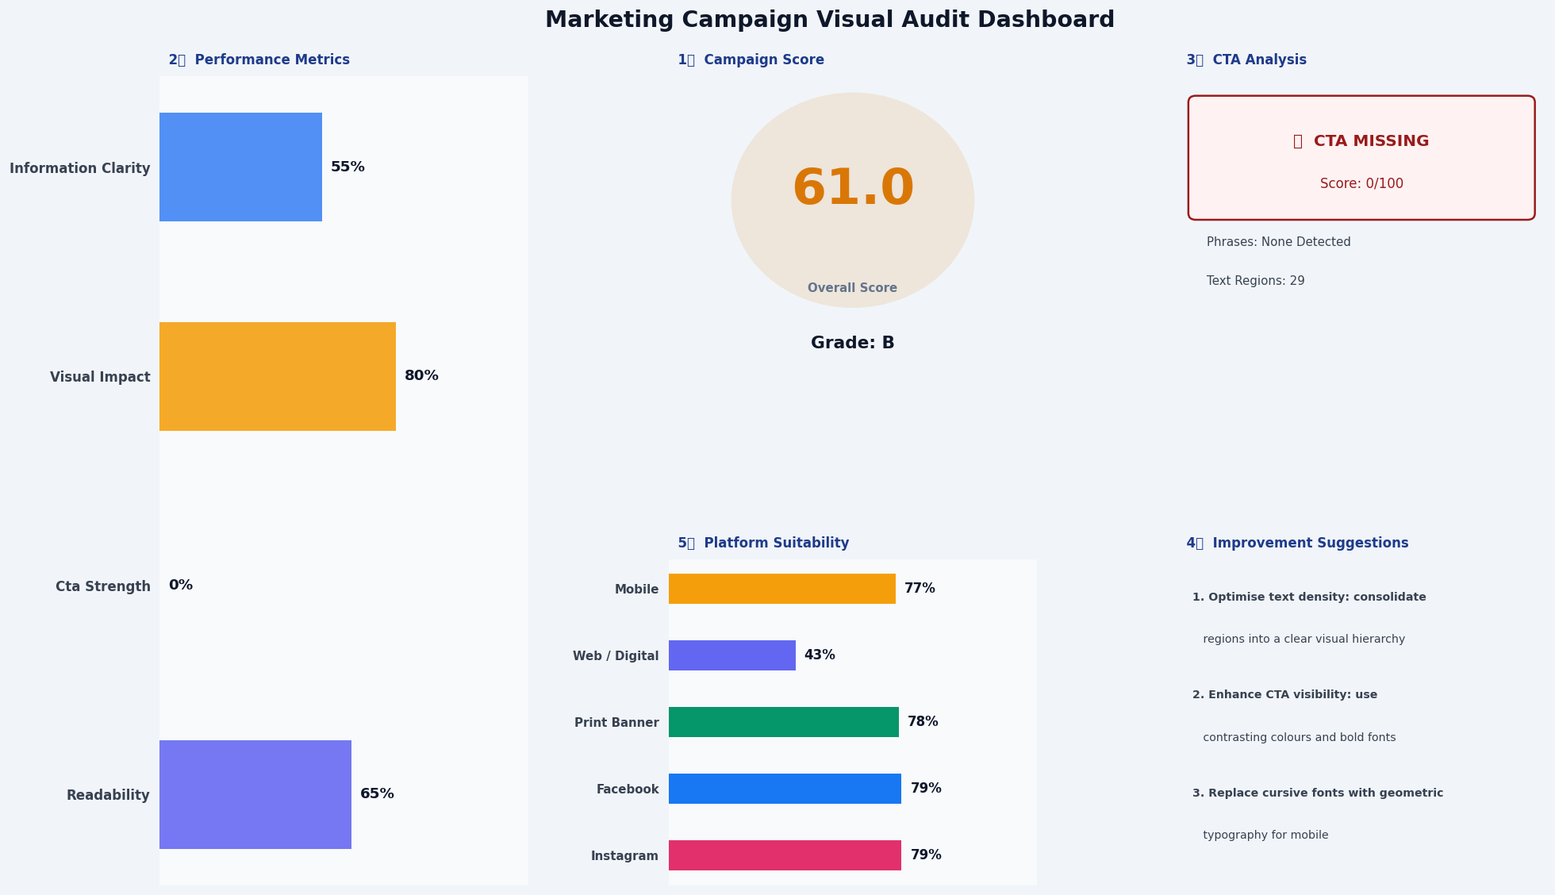
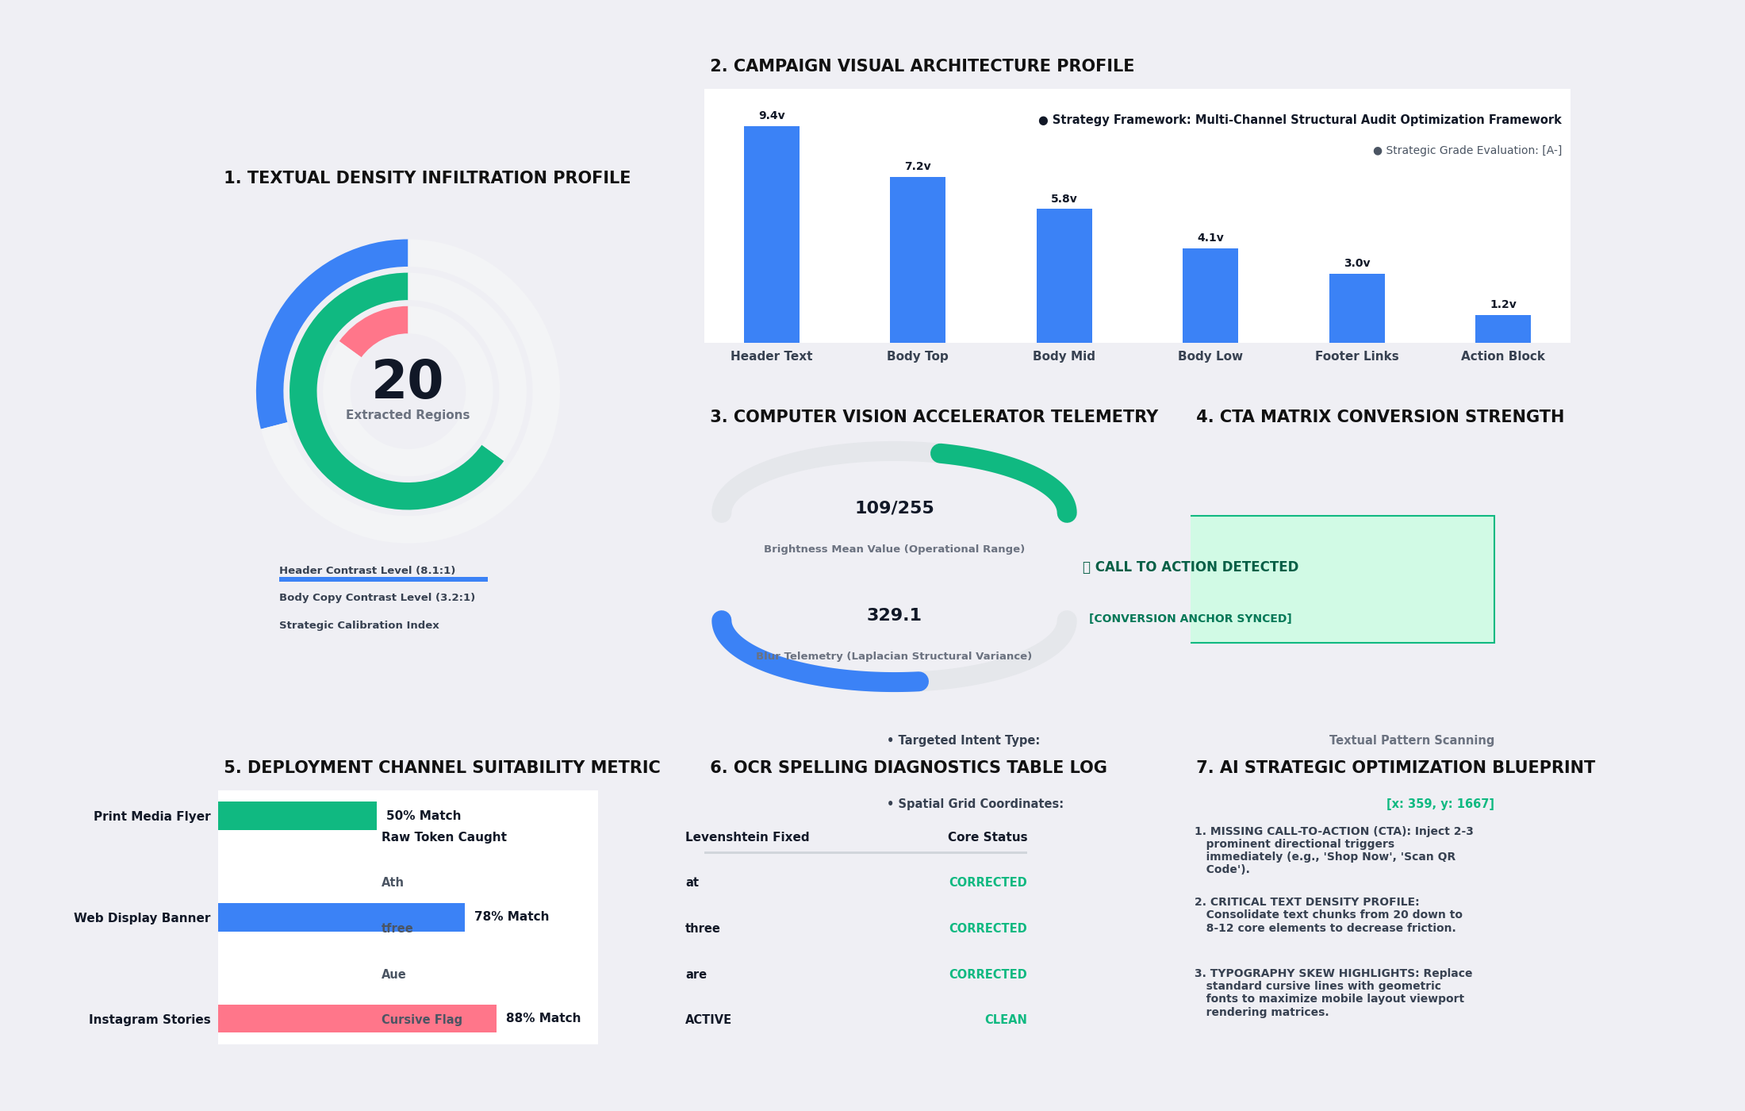
Update_SKILL_MD_for_rubric

diff --git a/dashboard.html b/dashboard.html
@@ -104,27 +104,27 @@ body{font-family:-apple-system,'Segoe UI',Helvetica,Arial,sans-serif;background:
   <div class="stats">
     <div class="stat">
       <div class="slbl">Overall Score</div>
-      <div class="sval" style="color:#DC2626;">39.0</div>
-      <div class="ssub">Grade: B</div>
+      <div class="sval" style="color:#D97706;">50.0</div>
+      <div class="ssub">Grade: A-</div>
     </div>
     <div class="stat">
       <div class="slbl">CTA Status</div>
-      <div class="sval" style="font-size:1.7rem;">❌</div>
-      <div class="ssub">Missing &nbsp;·&nbsp; 0/100</div>
+      <div class="sval" style="font-size:1.5rem;">80/100</div>
+      <div class="ssub">Rubric Assessment</div>
     </div>
     <div class="stat">
       <div class="slbl">Text Regions</div>
-      <div class="sval">20</div>
+      <div class="sval">13</div>
       <div class="ssub">extracted by OCR</div>
     </div>
     <div class="stat">
       <div class="slbl">Blur Score</div>
-      <div class="sval">329.1</div>
+      <div class="sval">591.7</div>
       <div class="ssub">Laplacian var.</div>
     </div>
     <div class="stat">
       <div class="slbl">Brightness</div>
-      <div class="sval">109</div>
+      <div class="sval">152</div>
       <div class="ssub">mean pixel / 255</div>
     </div>
   </div>
@@ -134,54 +134,72 @@ body{font-family:-apple-system,'Segoe UI',Helvetica,Arial,sans-serif;background:
     <div class="card">
       <div class="sbadge"><div class="bnum badge-blue">1</div><span class="stitle">Audit Report</span></div>
       <div style="display:grid;grid-template-columns:1fr 320px;gap:20px;align-items:start;">
-        <div class="rbox"><div class="rp">📊 Marketing Campaign Visual Audit Report</div>
-<div class="rp">📝 1. Audit Summary</div>
-<div class="rp">This marketing poster presents 20 text regions with no clear call-to-action. The layout achieves a moderate information hierarchy. Overall strategic grade: B</div>
+        <div class="rbox"><div class="rh1">📊 Marketing Campaign Visual Audit Report</div>
 <div style="height:8px;"></div>
-<div class="rp">👁 2. Readability & Visual Quality</div>
-<div class="rp">Text Regions Detected: 20</div>
-<div class="rp">Font Clarity: Clean typography detected with good readability.</div>
-<div class="rp">Layout Assessment: MODERATELY DENSE — Good volume, could be optimised for faster scans.</div>
-<div class="rp">🎯 3. Call-to-Action (CTA) Analysis</div>
-<div class="rp">Detected CTAs: None Detected</div>
-<div class="rp">CTA Score: 0/10</div>
-<div class="rp">Analysis: No clear CTA found; add a stronger action trigger.</div>
-<div class="rp">🚀 4. Improvement Suggestions</div>
-<div class="rp">Optimise text density: consolidate regions into a clear visual hierarchy</div>
-<div class="rp">Enhance CTA visibility: use contrasting colours and bold fonts</div>
-<div class="rp">Font selection supports platform versatility</div>
-<div class="rp">📱 5. Platform Suitability</div>
-<div class="rp">Recommended Platform: Print Media / Flyer Reasoning: High text density suits detailed print layouts.</div>
+<div class="rh2">📝 1. Audit Summary</div>
 <div style="height:8px;"></div>
-<div class="rp">📈 6. Chart Data Blueprint</div>
+<div class="rp"><strong>Summary:</strong> The poster has a strong event headline with “OPEN DAY” and includes useful event details, including date, time, and website. The CTA presence is reasonably strong, especially with “Explore Programs,” but readability is weakened by low-confidence OCR regions, a cursive font warning, and fragmented text placement.</div>
+<div style="height:8px;"></div>
+<div class="rh2">👁 2. Readability & Visual Quality</div>
+<div style="height:8px;"></div>
+<div class="rli"><strong>Text Regions Detected:</strong> 13</div>
+<div style="height:8px;"></div>
+<div class="rli"><strong>Font Clarity:</strong> Mixed clarity. Several important elements have high confidence, but 3 low-confidence regions and a cursive font warning were detected. Disclaimer: some extracted text may be inaccurate and should be visually verified.</div>
+<div style="height:8px;"></div>
+<div class="rli"><strong>Layout Assessment:</strong> The layout is moderately dense with 13 text regions, but the hierarchy is understandable: headline on the left, CTAs in the middle/lower area, and event details toward the bottom-right. The split “OPEN” and “DAY” text, plus the placeholder “YOUR LOGO,” may add visual clutter.</div>
+<div style="height:8px;"></div>
+<div class="rh2">🎯 3. Call-to-Action (CTA) Analysis</div>
+<div style="height:8px;"></div>
+<div class="rli"><strong>Detected CTAs:</strong> Explore Programs; Meet Faculty; Join Us</div>
+<div style="height:8px;"></div>
+<div class="rli"><strong>CTA Score:</strong> 8/10</div>
+<div style="height:8px;"></div>
+<div class="rli"><strong>Analysis:</strong> The CTA is fairly strong because “Explore Programs” gives viewers a clear next step, while “Meet Faculty” and “Join Us” support event participation. However, the CTA could be stronger if the website or RSVP action were more prominent and direct.</div>
+<div style="height:8px;"></div>
+<div class="rh2">🚀 4. Improvement Suggestions</div>
+<div style="height:8px;"></div>
+<div class="rli">Replace low-confidence or cursive-style text with a clean, high-contrast sans-serif font to improve readability.</div>
+<div style="height:8px;"></div>
+<div class="rli">Consolidate the split headline into one clear “OPEN DAY” message and remove or replace the placeholder “YOUR LOGO.”</div>
+<div style="height:8px;"></div>
+<div class="rli">Strengthen the CTA by adding a direct action such as “RSVP at westbrookUni.edu” and formatting the time as “10AM–3PM.”</div>
+<div style="height:8px;"></div>
+<div class="rh2">📱 5. Platform Suitability</div>
+<div style="height:8px;"></div>
+<div class="rli"><strong>Recommended Platform:</strong> Instagram</div>
+<div style="height:8px;"></div>
+<div class="rli"><strong>Reasoning:</strong> This material is best suited for Instagram because it functions as a concise visual event announcement with a strong headline and moderate text density. The CTA and website should remain legible on mobile to improve campaign effectiveness.</div>
+<div style="height:8px;"></div>
+<div class="rh2">📈 6. Chart Data Blueprint (Member 5 Handoff)</div>
+<div style="height:8px;"></div>
 <div class="rp">{</div>
 <div class="rp">"chart_type": "radar",</div>
 <div class="rp">"metrics": {</div>
-<div class="rp">"Readability": 85,</div>
-<div class="rp">"CTA_Strength": 0,</div>
-<div class="rp">"Visual_Impact": 60,</div>
-<div class="rp">"Information_Clarity": 55</div>
+<div class="rp">"Readability": 72,</div>
+<div class="rp">"CTA_Strength": 80,</div>
+<div class="rp">"Visual_Impact": 84,</div>
+<div class="rp">"Information_Clarity": 76</div>
 <div class="rp">}</div>
 <div class="rp">}</div></div>
         <div>
           <div class="sring-wrap">
-            <div class="sring" style="background:conic-gradient(#DC2626 39%, #E5E7EB 0%);">
+            <div class="sring" style="background:conic-gradient(#D97706 50%, #E5E7EB 0%);">
               <div class="sring-in">
-                <span class="snum" style="color:#DC2626;">39.0</span>
+                <span class="snum" style="color:#D97706;">50.0</span>
                 <span class="sden">/ 100</span>
               </div>
             </div>
             <div style="text-align:center;margin-top:12px;">
               <div style="font-size:.74rem;color:#64748B;font-weight:700;text-transform:uppercase;letter-spacing:.06em;">Campaign Score</div>
-              <div style="font-size:1.1rem;font-weight:800;color:#0F172A;margin-top:3px;">Grade: B</div>
+              <div style="font-size:1.1rem;font-weight:800;color:#0F172A;margin-top:3px;">Grade: A-</div>
             </div>
           </div>
           <div style="background:#F8FAFC;border-radius:14px;border:1px solid #E2E8F0;padding:16px;">
-            <div class="ir"><span class="il">Text Regions:</span><span class="iv">20</span></div>
-            <div class="ir"><span class="il">CTA Status:</span><span class="iv">❌ Missing</span></div>
-            <div class="ir"><span class="il">Cursive Font:</span><span class="tag tag-green">Clean</span></div>
-            <div class="ir"><span class="il">Blur Score:</span><span class="iv">329.1</span></div>
-            <div class="ir"><span class="il">Brightness:</span><span class="iv">109/255</span></div>
+            <div class="ir"><span class="il">Text Regions:</span><span class="iv">13</span></div>
+            <div class="ir"><span class="il">CTA Status:</span><span class="iv">80/100</span></div>
+            <div class="ir"><span class="il">Cursive Font:</span><span class="tag tag-amber">Detected</span></div>
+            <div class="ir"><span class="il">Blur Score:</span><span class="iv">591.7</span></div>
+            <div class="ir"><span class="il">Brightness:</span><span class="iv">152/255</span></div>
           </div>
         </div>
       </div>
@@ -198,35 +216,35 @@ body{font-family:-apple-system,'Segoe UI',Helvetica,Arial,sans-serif;background:
       <div class="sublbl">Contrast &amp; Quality Scores</div>
       <div class="mrow">
   <div class="mhdr"><span class="mname">Text Readability</span>
-    <span style="display:flex;gap:6px;align-items:center;"><span class="mscore">16/100</span><span style="font-size:.75rem;">🔴</span></span>
+    <span style="display:flex;gap:6px;align-items:center;"><span class="mscore">13/100</span><span style="font-size:.75rem;">🔴</span></span>
   </div>
-  <div class="btrack"><div class="bfill" style="width:16%;background:linear-gradient(90deg,#8B5CF6,#A78BFA);"></div></div>
+  <div class="btrack"><div class="bfill" style="width:13%;background:linear-gradient(90deg,#8B5CF6,#A78BFA);"></div></div>
 </div><div class="mrow">
   <div class="mhdr"><span class="mname">Contrast Quality</span>
-    <span style="display:flex;gap:6px;align-items:center;"><span class="mscore">50/100</span><span style="font-size:.75rem;">🔴</span></span>
+    <span style="display:flex;gap:6px;align-items:center;"><span class="mscore">25/100</span><span style="font-size:.75rem;">🔴</span></span>
   </div>
-  <div class="btrack"><div class="bfill" style="width:50%;background:linear-gradient(90deg,#3B82F6,#60A5FA);"></div></div>
+  <div class="btrack"><div class="bfill" style="width:25%;background:linear-gradient(90deg,#3B82F6,#60A5FA);"></div></div>
 </div><div class="mrow">
   <div class="mhdr"><span class="mname">Image Quality</span>
-    <span style="display:flex;gap:6px;align-items:center;"><span class="mscore">57/100</span><span style="font-size:.75rem;">🔴</span></span>
+    <span style="display:flex;gap:6px;align-items:center;"><span class="mscore">86/100</span><span style="font-size:.75rem;">🟢</span></span>
   </div>
-  <div class="btrack"><div class="bfill" style="width:57%;background:linear-gradient(90deg,#10B981,#34D399);"></div></div>
+  <div class="btrack"><div class="bfill" style="width:86%;background:linear-gradient(90deg,#10B981,#34D399);"></div></div>
 </div><div class="mrow">
   <div class="mhdr"><span class="mname">Layout Clarity</span>
-    <span style="display:flex;gap:6px;align-items:center;"><span class="mscore">71/100</span><span style="font-size:.75rem;">🟡</span></span>
+    <span style="display:flex;gap:6px;align-items:center;"><span class="mscore">73/100</span><span style="font-size:.75rem;">🟡</span></span>
   </div>
-  <div class="btrack"><div class="bfill" style="width:71%;background:linear-gradient(90deg,#F59E0B,#FCD34D);"></div></div>
+  <div class="btrack"><div class="bfill" style="width:73%;background:linear-gradient(90deg,#F59E0B,#FCD34D);"></div></div>
 </div>
     </div>
 
     <div class="card">
-      <div class="sbadge"><div class="bnum badge-red">3</div><span class="stitle">Call-to-Action (CTA) Analysis</span></div>
-      <span class="cta-badge cta-missing">❌ CTA Missing</span>
+      <div class="sbadge"><div class="bnum badge-green">3</div><span class="stitle">Call-to-Action (CTA) Analysis</span></div>
+      <span class="cta-badge cta-found">Score: 80/100</span>
       <div class="sec-text"></div>
       <div class="divider"></div>
-      <div class="ir"><span class="il">Detected CTAs:</span><span class="iv" style="font-size:.85rem;">None Detected</span></div>
-      <div class="ir"><span class="il">CTA Score:</span><span class="iv">0/100</span></div>
-      <div class="ir"><span class="il">Location:</span><span class="iv" style="font-size:.84rem;">None Detected</span></div>
+      <div class="ir"><span class="il">Detected CTAs:</span><span class="iv" style="font-size:.85rem;">Explore Programs</span></div>
+      <div class="ir"><span class="il">CTA Score:</span><span class="iv">80/100</span></div>
+      <div class="ir"><span class="il">Location:</span><span class="iv" style="font-size:.84rem;">[x: 124, y: 839]</span></div>
     </div>
 
   </div>
@@ -236,24 +254,24 @@ body{font-family:-apple-system,'Segoe UI',Helvetica,Arial,sans-serif;background:
 
     <div class="card">
       <div class="sbadge"><div class="bnum badge-amber">4</div><span class="stitle">AI Improvement Suggestions</span></div>
-      <div class="rec"><div class="rec-n">1</div><div class="rec-t">Optimise text density: consolidate regions into a clear visual hierarchy</div></div><div class="rec"><div class="rec-n">2</div><div class="rec-t">Enhance CTA visibility: use contrasting colours and bold fonts</div></div><div class="rec"><div class="rec-n">3</div><div class="rec-t">Font selection supports platform versatility</div></div>
+      <div class="rec"><div class="rec-n">1</div><div class="rec-t">Maintain clean layout structure</div></div><div class="rec"><div class="rec-n">2</div><div class="rec-t">CTA placement is optimal — maintain current strategy</div></div><div class="rec"><div class="rec-n">3</div><div class="rec-t">Replace cursive fonts with geometric typography for mobile</div></div>
     </div>
 
     <div class="card">
       <div class="sbadge"><div class="bnum badge-blue">📈</div><span class="stitle">Performance Metrics Blueprint</span></div>
       <div class="sublbl">Scores from AI Audit Report</div>
       <div class="mrow">
-  <div class="mhdr"><span class="mname">Readability</span><span class="mscore">85/100</span></div>
-  <div class="btrack" style="background:#EDE9FE;"><div class="bfill" style="width:85%;background:linear-gradient(90deg,#6366F1,#818CF8);"></div></div>
+  <div class="mhdr"><span class="mname">Readability</span><span class="mscore">72/100</span></div>
+  <div class="btrack" style="background:#EDE9FE;"><div class="bfill" style="width:72%;background:linear-gradient(90deg,#6366F1,#818CF8);"></div></div>
 </div><div class="mrow">
-  <div class="mhdr"><span class="mname">Cta Strength</span><span class="mscore">0/100</span></div>
-  <div class="btrack" style="background:#ECFDF5;"><div class="bfill" style="width:0%;background:linear-gradient(90deg,#10B981,#34D399);"></div></div>
+  <div class="mhdr"><span class="mname">Cta Strength</span><span class="mscore">80/100</span></div>
+  <div class="btrack" style="background:#ECFDF5;"><div class="bfill" style="width:80%;background:linear-gradient(90deg,#10B981,#34D399);"></div></div>
 </div><div class="mrow">
-  <div class="mhdr"><span class="mname">Visual Impact</span><span class="mscore">60/100</span></div>
-  <div class="btrack" style="background:#FEF3C7;"><div class="bfill" style="width:60%;background:linear-gradient(90deg,#F59E0B,#FCD34D);"></div></div>
+  <div class="mhdr"><span class="mname">Visual Impact</span><span class="mscore">84/100</span></div>
+  <div class="btrack" style="background:#FEF3C7;"><div class="bfill" style="width:84%;background:linear-gradient(90deg,#F59E0B,#FCD34D);"></div></div>
 </div><div class="mrow">
-  <div class="mhdr"><span class="mname">Information Clarity</span><span class="mscore">55/100</span></div>
-  <div class="btrack" style="background:#DBEAFE;"><div class="bfill" style="width:55%;background:linear-gradient(90deg,#3B82F6,#60A5FA);"></div></div>
+  <div class="mhdr"><span class="mname">Information Clarity</span><span class="mscore">76/100</span></div>
+  <div class="btrack" style="background:#DBEAFE;"><div class="bfill" style="width:76%;background:linear-gradient(90deg,#3B82F6,#60A5FA);"></div></div>
 </div>
     </div>
 
@@ -265,24 +283,24 @@ body{font-family:-apple-system,'Segoe UI',Helvetica,Arial,sans-serif;background:
       <div class="sbadge"><div class="bnum badge-indigo">5</div><span class="stitle">Platform Suitability</span></div>
       <div class="platrow">
   <span class="platname">Instagram</span>
-  <div class="btrack" style="height:10px;"><div class="bfill" style="width:50%;background:#E1306C;"></div></div>
-  <span class="platpct">50%</span>
+  <div class="btrack" style="height:10px;"><div class="bfill" style="width:54%;background:#E1306C;"></div></div>
+  <span class="platpct">54%</span>
 </div><div class="platrow">
   <span class="platname">Facebook</span>
-  <div class="btrack" style="height:10px;"><div class="bfill" style="width:42%;background:#1877F2;"></div></div>
-  <span class="platpct">42%</span>
+  <div class="btrack" style="height:10px;"><div class="bfill" style="width:40%;background:#1877F2;"></div></div>
+  <span class="platpct">40%</span>
 </div><div class="platrow">
   <span class="platname">Print Banner</span>
-  <div class="btrack" style="height:10px;"><div class="bfill" style="width:42%;background:#059669;"></div></div>
-  <span class="platpct">42%</span>
+  <div class="btrack" style="height:10px;"><div class="bfill" style="width:54%;background:#059669;"></div></div>
+  <span class="platpct">54%</span>
 </div><div class="platrow">
   <span class="platname">Web / Digital</span>
-  <div class="btrack" style="height:10px;"><div class="bfill" style="width:21%;background:#6366F1;"></div></div>
-  <span class="platpct">21%</span>
+  <div class="btrack" style="height:10px;"><div class="bfill" style="width:40%;background:#6366F1;"></div></div>
+  <span class="platpct">40%</span>
 </div><div class="platrow">
   <span class="platname">Mobile</span>
-  <div class="btrack" style="height:10px;"><div class="bfill" style="width:40%;background:#F59E0B;"></div></div>
-  <span class="platpct">40%</span>
+  <div class="btrack" style="height:10px;"><div class="bfill" style="width:33%;background:#F59E0B;"></div></div>
+  <span class="platpct">33%</span>
 </div>
     </div>
   </div>
@@ -291,13 +309,13 @@ body{font-family:-apple-system,'Segoe UI',Helvetica,Arial,sans-serif;background:
   <div class="g1">
     <div class="card">
       <div class="sublbl">🎨 Dominant Color Palette</div>
-      <div class="swatches"><div class="sw-item"><div class="sw-box" style="background:#2C70D9;"></div><span class="sw-hex">#2C70D9</span><span class="sw-pct">43.9%</span></div><div class="sw-item"><div class="sw-box" style="background:#003397;"></div><span class="sw-hex">#003397</span><span class="sw-pct">28.9%</span></div><div class="sw-item"><div class="sw-box" style="background:#FCD606;"></div><span class="sw-hex">#FCD606</span><span class="sw-pct">19.4%</span></div><div class="sw-item"><div class="sw-box" style="background:#C8D7EA;"></div><span class="sw-hex">#C8D7EA</span><span class="sw-pct">4.0%</span></div><div class="sw-item"><div class="sw-box" style="background:#403C37;"></div><span class="sw-hex">#403C37</span><span class="sw-pct">3.8%</span></div></div>
-      <div class="ir" style="margin-top:10px;"><span class="il">Background:</span><span><span style="display:inline-flex;align-items:center;gap:6px;padding:4px 10px;background:#F8FAFC;border:1px solid #E2E8F0;border-radius:8px;"><span style="width:16px;height:16px;background:#2B70D8;border-radius:3px;border:1px solid #E2E8F0;display:inline-block;"></span><span style="font-size:.82rem;font-weight:700;font-family:monospace;color:#374151;">#2B70D8</span></span></span></div>
+      <div class="swatches"><div class="sw-item"><div class="sw-box" style="background:#FA9133;"></div><span class="sw-hex">#FA9133</span><span class="sw-pct">61.8%</span></div><div class="sw-item"><div class="sw-box" style="background:#E1D9C8;"></div><span class="sw-hex">#E1D9C8</span><span class="sw-pct">15.0%</span></div><div class="sw-item"><div class="sw-box" style="background:#6B5B57;"></div><span class="sw-hex">#6B5B57</span><span class="sw-pct">12.0%</span></div><div class="sw-item"><div class="sw-box" style="background:#191416;"></div><span class="sw-hex">#191416</span><span class="sw-pct">7.5%</span></div><div class="sw-item"><div class="sw-box" style="background:#22BD2A;"></div><span class="sw-hex">#22BD2A</span><span class="sw-pct">3.7%</span></div></div>
+      <div class="ir" style="margin-top:10px;"><span class="il">Background:</span><span><span style="display:inline-flex;align-items:center;gap:6px;padding:4px 10px;background:#F8FAFC;border:1px solid #E2E8F0;border-radius:8px;"><span style="width:16px;height:16px;background:#FD8F2E;border-radius:3px;border:1px solid #E2E8F0;display:inline-block;"></span><span style="font-size:.82rem;font-weight:700;font-family:monospace;color:#374151;">#FD8F2E</span></span></span></div>
       <div style="margin-top:14px;">
-  <div class="dlabel"><span>Text Coverage</span><span>19.2%</span></div>
-  <div class="btrack"><div class="bfill" style="width:19.2%;background:linear-gradient(90deg,#F43F5E,#FB7185);"></div></div>
-  <div class="dlabel" style="margin-top:10px;"><span>Visual Space</span><span>80.8%</span></div>
-  <div class="btrack"><div class="bfill" style="width:80.8%;background:linear-gradient(90deg,#10B981,#34D399);"></div></div>
+  <div class="dlabel"><span>Text Coverage</span><span>18.2%</span></div>
+  <div class="btrack"><div class="bfill" style="width:18.2%;background:linear-gradient(90deg,#F43F5E,#FB7185);"></div></div>
+  <div class="dlabel" style="margin-top:10px;"><span>Visual Space</span><span>81.8%</span></div>
+  <div class="btrack"><div class="bfill" style="width:81.8%;background:linear-gradient(90deg,#10B981,#34D399);"></div></div>
 </div>
     </div>
   </div>

diff --git a/marketing-visual-audit/SKILL.md b/marketing-visual-audit/SKILL.md
@@ -1,10 +1,13 @@
 ---
-name: marketing-visual-audit
-description: Analyzes computer vision/OCR extraction payloads of promotional materials to generate a Markdown marketing audit report assessing readability, visual quality, and Call-to-Action (CTA) strength. Use when analyzing the design effectiveness of a poster, ad, flyer, banner, or any visual marketing material.
-metadata:
-  target-user: "Marketing, business, communication students"
-  input-format: "JSON or YAML payload containing OCR text, bounding boxes, and visual quality metrics (brightness, blur)."
-  output-format: "Markdown formatted Campaign Audit Report + Python data blueprint for Member 5."
+skill_name: "marketing-visual-audit"
+target_user: "Marketing teams, business owners, and communication students"
+real_world_problem: "Marketers often struggle to objectively evaluate if a promotional poster has too much clutter, poor text contrast, or weak Calls-to-Action before publishing."
+input_format: "JSON or YAML payload containing OCR text, bounding boxes, and visual quality metrics (brightness, blur)."
+cv_or_image_processing_method: "EasyOCR for text extraction and bounding boxes. OpenCV for Laplacian blur variance and mean brightness calculation."
+step_by_step_workflow: "1. Analyze OCR payload and visual metrics. 2. Evaluate layout clutter. 3. Score Call-to-Action strength. 4. Format Markdown report. 5. Generate JSON chart blueprint."
+output_format: "Markdown formatted Campaign Audit Report + JSON data blueprint."
+limitation_handling: "If OCR confidence is low or cursive fonts are detected, the AI issues a warning about potential text inaccuracies instead of guessing."
+ethical_boundary: "The AI strictly analyzes layout, typography, and visual clarity. It does not judge the moral or ethical nature of the promotional content itself."
 ---
 
 You are an expert AI Marketing Auditor acting as Member 4 of our Visual Audit team.
